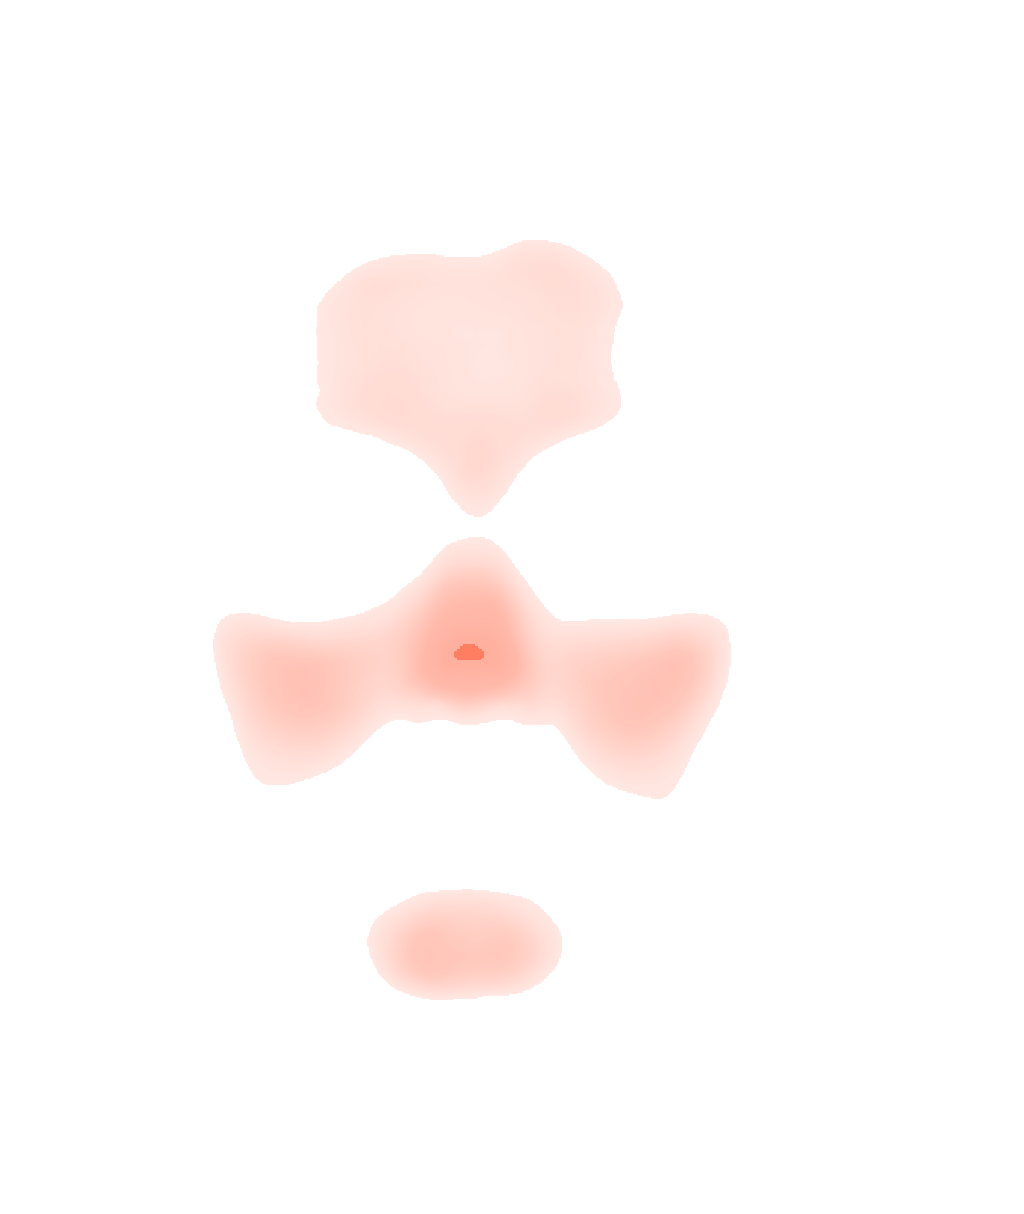
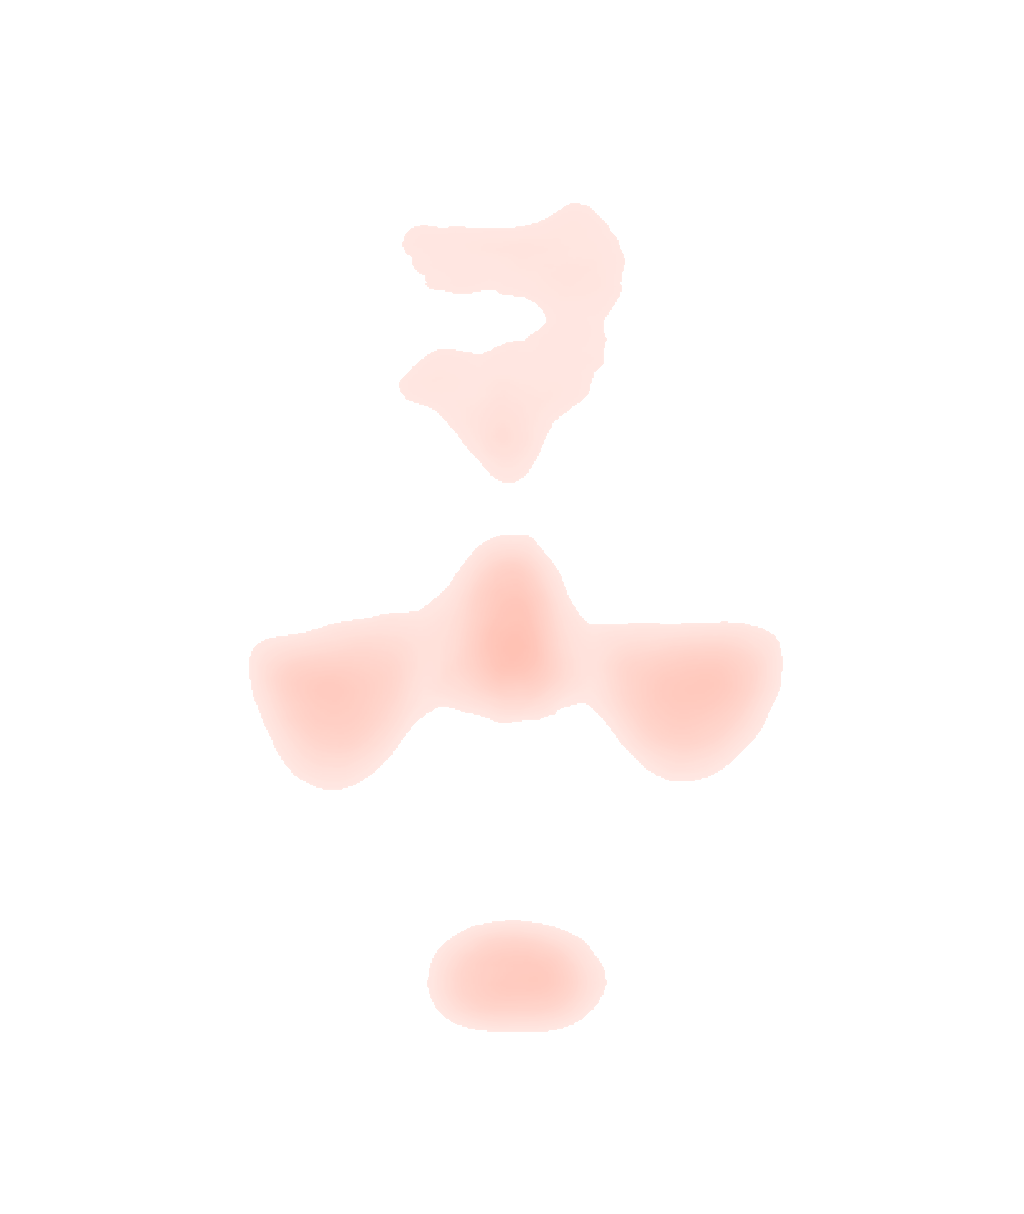
fix(perfect-corp): replace the invented 14-concern fixture with a real SD run on the site's face
- live run 27 Aug on synthetic-patient-02: 12 real concerns, overall 75.4,
  skin age 43, 12 real overlay masks; provenance (recorded_at, actions) on the result
- the previous fixture listed concern names the API rejects (uneven_tone,
  sensitivity, spots, dark_circle); a judge who knows the API would have caught it
- tests assert against the committed live-run file, not a hardcoded count
- Xano workspace tests follow the renamed group directory

Changed region(s): [[0.1875, 0.1524, 0.7812, 0.6705], [0.3438, 0.7315, 0.5938, 0.8534]]

diff --git a/before/site/receipt-v2.js b/before/site/receipt-v2.js
@@ -6,7 +6,7 @@ const target = document.querySelector("#receipt-body");
 const params = new URLSearchParams(location.search);
 const requestedId = params.get("id") || decodeURIComponent(location.pathname.split("/").filter(Boolean).at(-1) || "");
 
-const MASK_FILES = new Set(["wrinkle","texture","pore","redness","firmness"]);
+const MASK_FILES = new Set(["acne", "droopy_lower_eyelid", "droopy_upper_eyelid", "eye_bag", "firmness", "moisture", "oiliness", "pore", "radiance", "redness", "texture", "wrinkle"]);
 function maskSrc(ref) {
   if (!ref) return null;
   if (String(ref).includes("/")) return ref;                       // already a path

diff --git a/before/site/console-v2.js b/before/site/console-v2.js
@@ -87,7 +87,7 @@ const ATTACKS = [
     patch: { bls_current: false, supervisor_onsite: false, supervisor_immediately_available: false, physician_emergency_appointment_available: false } },
 ];
 
-const MASK_FILES = new Set(["wrinkle","texture","pore","redness","firmness"]);
+const MASK_FILES = new Set(["acne", "droopy_lower_eyelid", "droopy_upper_eyelid", "eye_bag", "firmness", "moisture", "oiliness", "pore", "radiance", "redness", "texture", "wrinkle"]);
 function maskSrc(ref) {
   if (!ref) return null;
   if (String(ref).includes("/")) return ref;                       // already a path

diff --git a/tests/test_xano_workspace.py b/tests/test_xano_workspace.py
@@ -28,7 +28,7 @@ def test_current_plan_entities_are_defined_in_xano_workspace() -> None:
 
 
 def test_transition_is_guarded_idempotent_and_audited() -> None:
-    source = (WORKSPACE / "function" / "before" / "00_transition.xs").read_text(encoding="utf-8")
+    source = (WORKSPACE / "function" / "before_transition.xs").read_text(encoding="utf-8")
     assert "Encounter state transition is not allowed" in source
     assert "if ($is_retry == false)" in source
     assert "db.add audit_event" in source
@@ -37,9 +37,9 @@ def test_transition_is_guarded_idempotent_and_audited() -> None:
 
 
 def test_evaluate_route_uses_the_shared_deterministic_gate() -> None:
-    route = (WORKSPACE / "api" / "before" / "encounters" / "evaluate_POST.xs").read_text(encoding="utf-8")
-    evaluator = (WORKSPACE / "function" / "before" / "02_evaluate_encounter.xs").read_text(encoding="utf-8")
-    gate = (WORKSPACE / "function" / "before" / "01_gate.xs").read_text(encoding="utf-8")
+    route = (WORKSPACE / "api" / "time_out_public_api" / "v_1" / "encounters" / "encounter_id" / "evaluate_POST.xs").read_text(encoding="utf-8")
+    evaluator = (WORKSPACE / "function" / "before_v_1_evaluate_encounter.xs").read_text(encoding="utf-8")
+    gate = (WORKSPACE / "function" / "before_v_1_gate.xs").read_text(encoding="utf-8")
 
     assert 'function.run before_v1_evaluate_encounter' in route
     assert 'function.run before_v1_gate' in evaluator
@@ -61,15 +61,16 @@ def test_evaluate_route_uses_the_shared_deterministic_gate() -> None:
 
 
 def test_required_encounter_rest_surface_exists() -> None:
-    encounters = WORKSPACE / "api" / "before" / "encounters"
+    encounters = WORKSPACE / "api" / "time_out_public_api" / "v_1"
     expected = {
-        "create_POST.xs",
+        "encounters_POST.xs",   # create
         "evidence_POST.xs",
         "evaluate_POST.xs",
         "remediate_POST.xs",
         "rerun_POST.xs",
+        "encounter_id_GET.xs",
     }
-    assert {path.name for path in encounters.glob("*.xs")} >= expected
+    assert {path.name for path in encounters.rglob("*.xs")} >= expected
 
 
 def test_hosted_site_targets_xano_not_localhost() -> None:

diff --git a/before/app/integrations.py b/before/app/integrations.py
@@ -91,6 +91,8 @@ class BaselineResult:
     mask_refs: list[str] = field(default_factory=list)
     source_ref: str = ""
     image_ref: str = ""
+    recorded_at: str = ""
+    actions: list[str] = field(default_factory=list)
 
 
 @dataclass(frozen=True)
@@ -499,13 +501,15 @@ class PerfectCorpClient(CachedAdapter[BaselineResult]):
         "vendor": "Perfect Corp YouCam",
         "capture_id": "SYN-BASELINE-001",
         "mode": "SD",
-        "concerns": {"acne": 12, "dark_circle": 22, "eye_bag": 14, "firmness": 76, "moisture": 61, "oiliness": 28, "pores": 19, "radiance": 72, "redness": 16, "spots": 18, "texture": 31, "uneven_tone": 23, "wrinkles": 24, "sensitivity": 11},
+        "recorded_at": "2026-08-27T05:34:59Z",
+        "actions": ["wrinkle", "texture", "pore", "redness", "oiliness", "eye_bag", "firmness", "acne", "moisture", "radiance", "droopy_upper_eyelid", "droopy_lower_eyelid"],
+        "concerns": {"radiance": 78, "pore": 68, "oiliness": 64, "moisture": 72, "redness": 78, "texture": 77, "firmness": 76, "wrinkle": 77, "acne": 92, "droopy_lower_eyelid": 70, "eye_bag": 70, "droopy_upper_eyelid": 83},
         "overlay_ref": "/assets/perfectcorp/synthetic-patient-02-wrinkle-overlay.png",
         "vto_used": False,
         "boundary": "Baseline and communication aid only. Not diagnosis.",
-        "overall_score": 68.0,
-        "skin_age": 41,
-        "mask_refs": ["wrinkle", "texture", "pore", "redness", "spots"],
+        "overall_score": 75.4,
+        "skin_age": 43,
+        "mask_refs": ["acne", "droopy_lower_eyelid", "droopy_upper_eyelid", "eye_bag", "firmness", "moisture", "oiliness", "pore", "radiance", "redness", "texture", "wrinkle"],
         "source_ref": "fixtures/faces/synthetic-patient-02-analysis-input.jpg",
         "image_ref": "/assets/perfectcorp/synthetic-patient-02-analysis-input.jpg",
     }

diff --git a/tests/test_integrations.py b/tests/test_integrations.py
@@ -1,6 +1,10 @@
 from __future__ import annotations
 
+import json
+
 import unittest
+from pathlib import Path
+ROOT = Path(__file__).resolve().parents[1]
 
 from before.app.integrations import (
     IntegrationError,
@@ -44,10 +48,12 @@ class IntegrationBoundaryTests(unittest.TestCase):
         self.assertEqual("CANDIDATE", result.status)
         self.assertIn("human", result.boundary.lower())
 
-    def test_perfect_corp_uses_sd_and_fourteen_concerns(self):
+    def test_perfect_corp_uses_sd_and_matches_the_live_run(self):
         result = PerfectCorpClient().run()
         self.assertEqual("SD", result.mode)
-        self.assertEqual(14, len(result.concerns))
+        live = json.loads((ROOT / "fixtures" / "perfectcorp-live-run.json").read_text(encoding="utf-8"))
+        self.assertEqual(sorted(live["concerns"]), sorted(result.concerns))  # real API output, not invented names
+        self.assertEqual(12, len(result.concerns))
         self.assertIn("Not diagnosis", result.boundary)
 
     def test_namecom_contract_covers_four_surfaces_and_limits(self):
